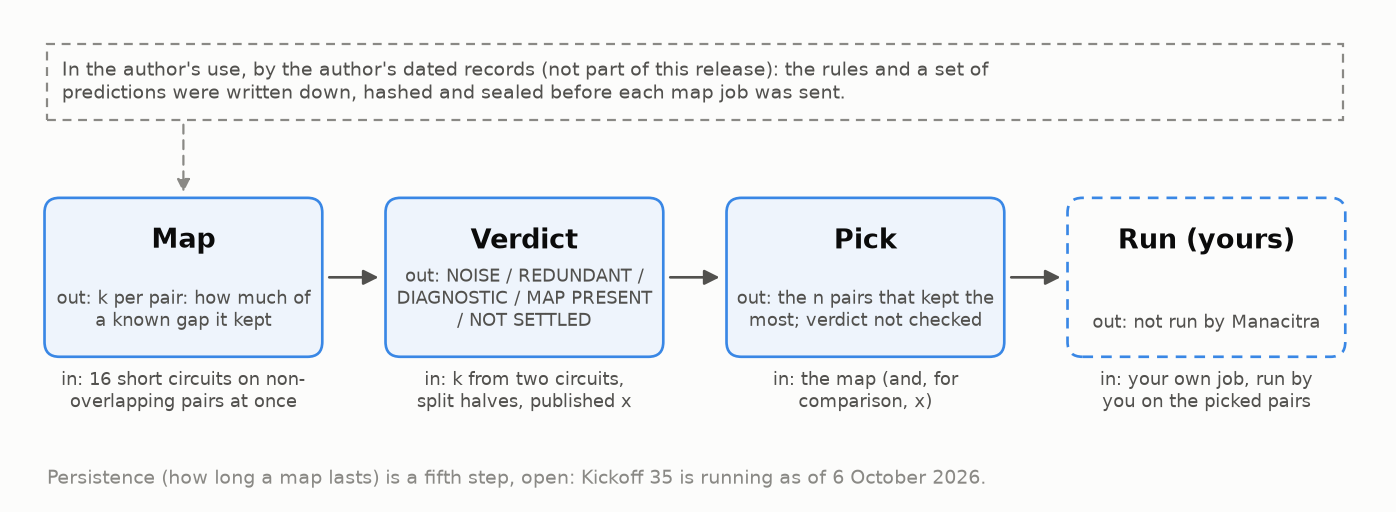
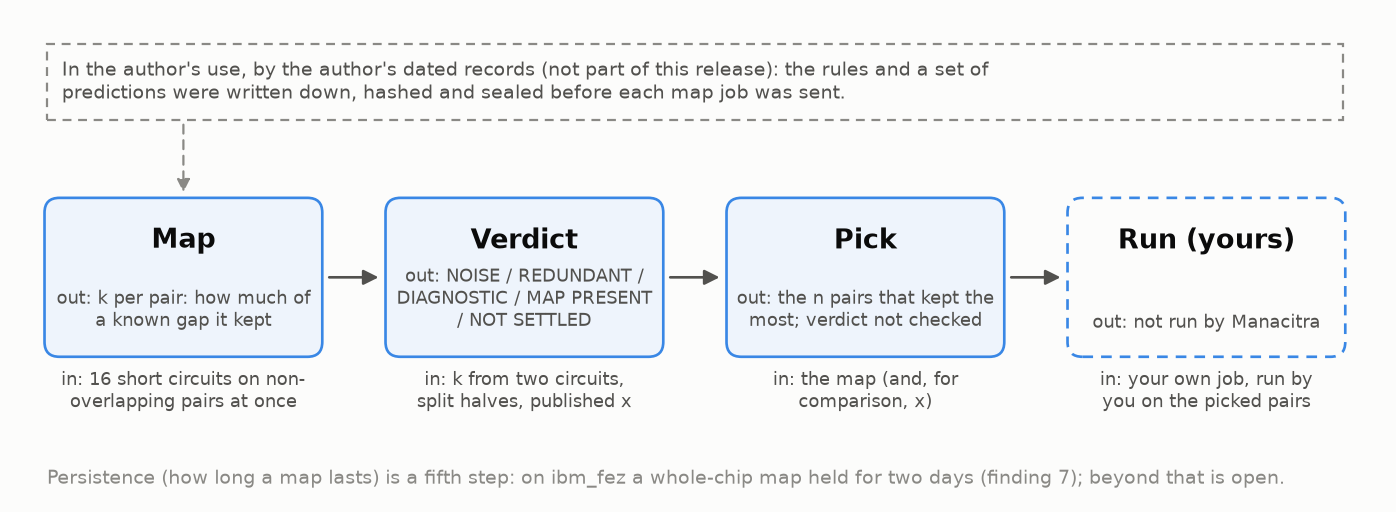
docs: what was measured, where the scores were tested, and a diagram that says Kickoff 35 ran
Finding 9 now says the gain is dominated by one pair and gives the
measured difference between the picks' other pairs, 0.0001, which a test
checks against a literal computed outside the package. The kept share
is said to have been tested on ibm_kingston too, and the scores not
compared head to head; finding 7 says IBM's x barely moved (at most
16%). The pipeline diagram's footer reports Kickoff 35's result, and a
test checks the text of every SVG against the phrases the README has
retired. The README and docs say how the commands read archived files.
Amendment A8, R1 and R3 to R5.

Changed region(s): [[0.3696, 0.9062, 0.9241, 0.9688]]

diff --git a/tests/test_readme_numbers.py b/tests/test_readme_numbers.py
@@ -336,15 +336,20 @@ def test_finding_7():
         top = {edges[i] for i in np.argsort(-k)[:6]}
         assert len(top & {tuple(p) for p in fl["pairs"]}) == 3, d
     assert "and three of them carry the most extreme values on the chip" in README
-    # both pairs on qubit 149 fell on Day 2 and came back on Day 3; IBM's x for them moved by less than 15%
+    # both pairs on qubit 149 fell on Day 2 and came back on Day 3, k by 3.5 and 4.1 from Day 1 to Day 2, while IBM's
+    # x for them changed by at most 16% (Amendment A8, R4: "barely moved", not "did not move")
     on149 = [i for i, e in enumerate(edges) if 149 in e]
     assert len(on149) == 2
+    falls, changes = [], []
     for i in on149:
         k1, k2, k3 = (a["per_day"][d]["k"][i] for d in "123")
         assert k2 < -4 and k1 > k2 + 2 and k3 > k2 + 2
+        falls.append(k1 - k2)
         x = [archive.load(f"ibm_fez/k35-day{d}.json")["published_at_submission"][i]["x"] for d in (1, 2, 3)]
-        assert max(x) / min(x) < 1.2  # x moved by up to 16% while k swung by more than 5
+        changes.append(max(x) / min(x) - 1)
+    assert sorted(round(f) for f in falls) == [3, 4] and round(max(changes), 2) == 0.16
     assert "On Day 2 both pairs on one qubit fell sharply and recovered on Day 3" in README
+    assert "while IBM's figures for them barely moved (x changed by at most 16%; k swung by 3 to 4)" in README
     assert min(r(ac["x_raw"][k]["pearson"], 2) for k in ("12", "23", "13")) == 0.99
     rkx = [r(a["per_day"][d]["r_k_x"]["pearson"], 2) for d in "123"]
     assert (max(rkx), min(rkx)) == (0.06, -0.07) and "(r between 0.07 and −0.07)" in README
@@ -404,10 +409,10 @@ def test_finding_9():
     S = [pairs.index(tuple(p)) for p in b["pick_set"]]
     assert len(S) == 23 and [tuple(p) for p in L["x_pick"]].index((94, 95)) == 5
     assert pairs[min(S, key=lambda i: W[i])] == (94, 95)
-    only_L = [pairs.index(tuple(p)) for p in L["pick"] if p not in L["x_pick"]]
-    only_x = [pairs.index(tuple(p)) for p in L["x_pick"] if p not in L["pick"] and tuple(p) != (94, 95)]
-    assert abs(W[only_L].mean() - W[only_x].mean()) < 0.001  # otherwise the picks tie
-    assert "rated 94-95 sixth best of 23, and it was the worst on the workload; the two picks otherwise tie" in README
+    assert (
+        "The gain is dominated by one pair: Rigetti's figures rated 94-95 sixth best of 23, and it was the worst"
+        in README
+    )
     today, before = k41_today(), k40_stage2()
     dead = {e: [tuple(x["pair"]) for x in a["dead_pair_filter"]["excluded"]] for e, a in (("t", today), ("y", before))}
     assert (18, 19) in dead["y"] and (18, 19) not in dead["t"]
@@ -535,4 +540,78 @@ def test_the_explainer_in_the_long_documentation():
     assert (
         "repeats (r = 0.87, needs at least 0.5), carries over (r = 0.82" in doc
         and "](diagrams/map-explainer.svg)" in doc
+    )
+
+
+def test_finding_9_the_level_only_pairs_against_the_x_only_pairs_apart_from_94_95():
+    """Amendment A8, R3: the three pairs only the level pick chose (0-1, 24-25, 87-88) against the two only the x pick
+    chose apart from 94-95 (22-23, 65-66), in mean workload fidelity W. The expected 0.00013 was computed by
+    tests/_independent_readings.py (k41_one_pair), which does not import manacitra."""
+    expected_difference = 0.00013  # from tests/_independent_readings.py, Amendment A8
+    b = k41_partB()
+    L = b["level"]
+    pairs, W = [tuple(p) for p in b["pairs"]], np.array(b["W"])
+    only_L = [pairs.index(tuple(p)) for p in L["pick"] if p not in L["x_pick"]]
+    only_x = [pairs.index(tuple(p)) for p in L["x_pick"] if p not in L["pick"] and tuple(p) != (94, 95)]
+    assert [pairs[i] for i in only_L] == [(0, 1), (24, 25), (87, 88)]
+    assert [pairs[i] for i in only_x] == [(22, 23), (65, 66)]
+    assert abs((W[only_L].mean() - W[only_x].mean()) - expected_difference) < 1e-4
+    assert r(W[only_L].mean() - W[only_x].mean(), 4) == 0.0001
+    assert (
+        "The three pairs only the level pick chose and the two only the x pick chose, apart from 94-95, differ in mean "
+        "fidelity by 0.0001." in README
+    )
+    assert "the two picks otherwise tie" not in README and "The whole gain is one pair" not in README
+
+
+def test_the_scores_compared_on_each_chip():
+    """Amendment A8, R4: the kept share was tested as a chooser on ibm_kingston too (finding 4, NOT SETTLED)."""
+    assert {n: v for n, _, v in k33("ibm_kingston")[0]}["verdict"] == "NOT SETTLED"
+    doc = (Path(__file__).resolve().parents[1] / "docs" / "index.md").read_text()
+    for text in (README, " ".join(doc.split())):
+        assert "was not settled on ibm_kingston" in text and "have not been compared head to head on any chip" in text
+        assert "third chip" not in text
+
+
+# --------------------------------------------------------------------------- Amendment A8, R5: retired phrases
+#: Phrases the README has retired, with the amendment that retired each; no README line and no diagram may carry one
+RETIRED = [
+    "running as of 6 October 2026",  # A7: Kickoff 35 ran and is reported
+    "is running as of",  # A7
+    "The findings come from runs on 5 and 6 October 2026",  # A7
+    "Three processors, two days",  # A7
+    "On Open Quantum, use a map only with the exact program that measured it.",  # A7
+    "today, use a map only within the job",  # A5
+    "SD of k 1.1, against 0.3",  # A7, corrected to the data
+    "15:06 to 16:20",  # A7, corrected to the data
+    "The whole gain is one pair",  # A8, R3
+    "the two picks otherwise tie",  # A8, R3
+    "Neither has been tested on a third chip",  # A8, R4
+    "IBM's figures for them did not move",  # A8, R4
+]
+DIAGRAMS = Path(__file__).resolve().parents[1] / "docs" / "diagrams"
+
+
+def svg_text(path: Path) -> str:
+    """Every piece of text in an SVG (the diagrams write text as text, not as paths), joined by spaces."""
+    import xml.etree.ElementTree as ET
+
+    return " ".join(" ".join(t.strip() for t in ET.parse(path).getroot().itertext() if t.strip()).split())
+
+
+def test_the_readme_carries_no_retired_phrase():
+    flat = " ".join(README.split())
+    assert [p for p in RETIRED if p in flat] == []
+
+
+@pytest.mark.parametrize("svg", sorted(p.name for p in DIAGRAMS.glob("*.svg")))
+def test_no_diagram_carries_a_retired_phrase(svg):
+    text = svg_text(DIAGRAMS / svg)
+    assert text, f"{svg}: no text found; the check would pass on anything"
+    assert [p for p in RETIRED if p in text] == []
+
+
+def test_the_pipeline_diagram_says_kickoff_35_ran():
+    assert "on ibm_fez a whole-chip map held for two days (finding 7); beyond that is open." in svg_text(
+        DIAGRAMS / "pipeline.svg"
     )

diff --git a/docs/make_diagrams.py b/docs/make_diagrams.py
@@ -464,7 +464,8 @@ def diagram_pipeline(out: Path):
     ax.text(
         0.25,
         0.1,
-        "Persistence (how long a map lasts) is a fifth step, open: Kickoff 35 is running as of 6 October 2026.",
+        "Persistence (how long a map lasts) is a fifth step: on ibm_fez a whole-chip map held for two days "
+        "(finding 7); beyond that is open.",
         fontsize=8.6,
         color=MUTED,
     )

diff --git a/README.md b/README.md
@@ -32,9 +32,9 @@ The verdict comes from three checks on the same map. It must repeat: each half o
 
 ![Four boxes in a row joined by arrows: Map (in: 16 short circuits on a set of non-overlapping qubit pairs at once (27 in the published runs); every coupler on a chip can be covered in a few rounds; out: k per pair), Verdict (in: k from two circuits, split halves, published x; out: NOISE, REDUNDANT, DIAGNOSTIC, MAP PRESENT or NOT SETTLED), Pick (in: the map; out: the n pairs that kept the most, ranked without checking the verdict), Run, drawn dashed (your own job, run by you on the picked pairs, not by Manacitra). A dashed note above the Map box says that, according to the author's dated records, which are not part of this release, the rules and predictions were sealed before each map job was sent.](docs/diagrams/pipeline.svg)
 
-Map, then verdict, then pick, then run. The verdict says whether the map is worth using at all: a map that does not repeat is NOISE, and a map the published figures already explain is REDUNDANT. Manacitra computes the map and the verdict; `manacitra pick` ranks pairs from the map and does not check the verdict, though it warns when the verdict is not DIAGNOSTIC or MAP PRESENT; and you run your own job. `manacitra pick --by level` ranks by the plain level instead, which chose better pairs on the Rigetti processor where the kept share did not (findings 8 and 9). In the author's own use, the rules and a set of predictions were written down and hashed before each job was sent, according to the author's dated records, which are not part of this release. From this release on, new commitments can be checked by anyone with `manacitra seal` and, once signing is on, a public timestamp; the runs published here predate this release and cannot be checked that way.
+Map, then verdict, then pick, then run. The verdict says whether the map is worth using at all: a map that does not repeat is NOISE, and a map the published figures already explain is REDUNDANT. Manacitra computes the map and the verdict; `manacitra pick` ranks pairs from the map and does not check the verdict, though it warns when the verdict is not DIAGNOSTIC or MAP PRESENT; and you run your own job. `manacitra pick --by level` ranks by the plain level instead, which chose better pairs on the Rigetti processor where the kept share did not (findings 8 and 9). On an archived file, `pick`, `verdict` and `report` read the counts by the bit reading the file declares (`meta.bit_reading`: IBM's, Open Quantum's or Amazon Braket's), refuse a file that declares none, and give the verdict and statistics of that run's own analysis; a Braket map's published score comes from the figures file it names. In the author's own use, the rules and a set of predictions were written down and hashed before each job was sent, according to the author's dated records, which are not part of this release. From this release on, new commitments can be checked by anyone with `manacitra seal` and, once signing is on, a public timestamp; the runs published here predate this release and cannot be checked that way.
 
-Which to rank by, from the two chips: on ibm_fez the kept share chose the better pairs (Kickoff 33); on the Rigetti processor the plain level, each pair's mean P(11) on circuit A without the offset, did, on the same day and a day later (Kickoffs 40 and 41), and the kept share did not. Neither has been tested on a third chip. The dead-pair filter uses the run's own levels, never a list from an earlier day: on the Rigetti processor, dead pairs came and went between consecutive days (18-19 came back; 72-73 and 76-77 went).
+Which to rank by: the kept share chose better pairs on ibm_fez and was not settled on ibm_kingston; the plain level, each pair's mean P(11) on circuit A without the offset, chose better pairs on the Rigetti processor, on the same day and a day later, where the kept share did not (Kickoffs 33, 40 and 41). The two scores have not been compared head to head on any chip. The dead-pair filter uses the run's own levels, never a list from an earlier day: on the Rigetti processor, dead pairs came and went between consecutive days (18-19 came back; 72-73 and 76-77 went).
 
 ### 5. The payoff
 
@@ -50,7 +50,7 @@ This one is for a stranger who wants to know whether the predictions came before
 
 ## What it has shown, and what it has not
 
-The findings come from runs on 5 to 7 October 2026. The counts are in `data/`. Every statistic listed in `tests/expected_fields.json` is recomputed from the archived inputs: the raw counts where the release includes them; for the Kickoff 29 settling runs and some Rigetti comparisons, the archived probability or level tables, whose counts are not in this release; and, for elapsed times, the archived timestamps, and compared at 10⁻⁶, except the seeded resampling fields: the intervals that also resample shots, at 10⁻³, and Kickoff 42's bootstrap SDs, at 10⁻⁶ under numpy 2.5 or later (`tests/_reproduce.py`, `RESAMPLED`). Fields that cannot be recomputed from this release are named, with reasons, in `tests/excluded_fields.json`. Both lists are checked by `pytest tests/test_reproduction.py tests/test_field_inventory.py`. Every measured statistic in the README is checked by a test; times, ranges and counts are taken from the data files and listed in `tests/test_readme_numbers.py`.
+The findings come from runs on 5 to 7 October 2026. The counts are in `data/`. Every statistic listed in `tests/expected_fields.json` is recomputed from the archived inputs: the raw counts where the release includes them; for the Kickoff 29 settling runs and some Rigetti comparisons, the archived probability or level tables, whose counts are not in this release; and, for elapsed times, the archived timestamps, and compared at 10⁻⁶, except the seeded resampling fields: the intervals that also resample shots, at 10⁻³, and Kickoff 42's bootstrap SDs, at 10⁻⁶ under numpy 2.5 or later (each marked in `tests/expected_fields.json`). Fields that cannot be recomputed from this release are named, with reasons, in `tests/excluded_fields.json`. Both lists are checked by `pytest tests/test_reproduction.py tests/test_field_inventory.py`. Every measured statistic in the README is checked by a test; times, ranges and counts are taken from the data files and listed in `tests/test_readme_numbers.py`.
 
 1. **Each pair keeps its own share, and the share repeats** (Kickoff 31; ibm_fez at 12:37 UTC, ibm_kingston at 12:38 UTC; 27 pairs each). Within one job, the map from one half of the circuits correlates with the map from the other half at r = 0.87 (ibm_fez) and 0.90 (ibm_kingston). It carries over to a second circuit with a different gap and its own reference: r = 0.82 and 0.89. The published score does not account for it (r = −0.18 and −0.05). Verdict on both: DIAGNOSTIC.
 2. **The map exists on a second vendor's chip, within one job** (Kickoff 34b; Rigetti Cepheus-1-108Q, through Open Quantum, 5 October 2026, main job 22:15 to 22:29 UTC). A screening run chose 27 pairs, and 22 of them were working pairs in the main job. Kickoff 37 later found that the five pairs excluded here read low only under this program: under the 53-pair screen program they read 0.70 to 0.84. Kickoff 40 later ran the same 27 named pairs on this processor through a route that records placement, and found that this job's pair levels do not match the pinned levels (r = −0.17 on the 20 shared working pairs). The pair names in this job are labels, not locations; the within-job finding stands as measured. Within that job, each pair's kept share repeated (the split halves correlate at r = 0.985) and carried over from circuit A to circuit B (r = 0.971). Verdict: MAP PRESENT. Two pairs whose offset circuits collapsed, 13-14 and 101-102, inflate these Pearson figures. Without them, on 20 pairs, the repeat check is 0.84 and the carry-over 0.79, and the rule still gives MAP PRESENT; this 20-pair figure was computed after seeing the data. (The leave-one-out check, fixed before the run according to the author's dated records, which are not part of this release, drops 101-102 alone and also gives MAP PRESENT.) The chip publishes no per-pair figures, so the test cannot say whether the map adds anything beyond them.
@@ -58,9 +58,9 @@ The findings come from runs on 5 to 7 October 2026. The counts are in `data/`. E
 4. **On ibm_fez, choosing pairs by the map gave 35.6% less error on unrelated random circuits than choosing by the published error rates** (Kickoff 33; 15:20 UTC). Gain in fidelity G = +0.0012, 90% interval +0.0004 to +0.0021; verdict USEFUL. **On ibm_kingston (15:23 UTC), 16% less, not statistically settled**: G = +0.0004 (+0.0001 to +0.0008), but the map's partial correlation with the workload, after removing the published score, was 0.29 (p = 0.073), short of the rule's 0.3 and p < 0.05. Verdict: NOT SETTLED.
 5. **The rule can say no** (Kickoff 36, a simulation of the noise model Cirq publishes for Google's willow_pink, run on a laptop; not a measurement of any device). When every difference between pairs came from the published figures, the rule called the map NOISE: those differences were too small to repeat above shot noise. When a per-pair error was planted outside the published figures, the rule found it (DIAGNOSTIC).
 6. **On the Rigetti processor, a pair's level depends on the program that measures it, not on the hour** (Kickoff 37; Rigetti Cepheus-1-108Q, through Open Quantum, 6 October 2026; first wave 00:45 to 02:22 UTC, second wave 11:31 to 11:35 UTC). Two programs from Kickoff 34b were sent again, unchanged: the main job's 27-pair program and the 53-pair screen, which contains the same 27 pairs. Each program agreed with itself: r = 0.997 to 0.998 minutes apart, 0.97 (27-pair) and 0.76 (53-pair) across about 9 hours, and 0.99 and 0.98 against its own Kickoff 34b run the day before. The two programs did not agree with each other on the 27 pairs they share: r = 0.07 in the first wave and −0.25 in the second, when all three tasks ran within 3 minutes. Verdict, by a rule fixed before the run according to the author's dated records: PLACEMENT, read as "the levels depend on the program". Kickoff 38 (6 October 2026, 13:42 to 13:46 UTC) then sent a third program that measures the 53-pair program's 106 qubits but runs only the 27-pair program's gates: it read like the 27-pair program (r = 0.99) and not like the 53-pair one (r = −0.15), so what moves the levels is the program's gate graph, not which qubits it measures (verdict ACTIVITY). Kickoff 40 then ran named pairs on the same processor through Amazon Braket, where the compiled program returned with each task shows where each pair ran, and found that neither of Kickoff 37's programs had run its pairs on the named qubits (r = −0.18 and 0.24 against the pinned levels). The levels depended on the program because the program's gates decided where the pairs went. The second wave was planned two hours after the first and ran nine hours after it, so the two-hour question was not tested.
-7. **On ibm_fez, a map of the whole chip held for two days** (Kickoff 35; all 176 coupled pairs in 3 rounds, one job a day on 5, 6 and 7 October 2026 at 17:02, 14:56 and 14:21 UTC, across two daily recalibrations). The map from Day 3 correlates with Day 1 at r = 0.86 (0.89 after correcting for each day's own repeatability), and 9 of the 18 worst pairs on Day 1 were still among the 18 worst on Day 3, exactly the rule's bar of 50%. Verdict: HOLDS, under the rule fixed before the run and under its amendment. The decile condition is met with no margin, and a repeat could as easily have read PARTIAL; the correlations are the solid part. Four pairs that IBM lists at a two-qubit error of 1.0 ran, and three of them carry the most extreme values on the chip; without all four the corrected correlation from Day 1 to Day 3 is 0.74. On Day 2 both pairs on one qubit fell sharply and recovered on Day 3, while IBM's figures for them did not move. IBM's published score is steadier day to day than the map (r = 0.99) and does not predict it (r between 0.07 and −0.07).
+7. **On ibm_fez, a map of the whole chip held for two days** (Kickoff 35; all 176 coupled pairs in 3 rounds, one job a day on 5, 6 and 7 October 2026 at 17:02, 14:56 and 14:21 UTC, across two daily recalibrations). The map from Day 3 correlates with Day 1 at r = 0.86 (0.89 after correcting for each day's own repeatability), and 9 of the 18 worst pairs on Day 1 were still among the 18 worst on Day 3, exactly the rule's bar of 50%. Verdict: HOLDS, under the rule fixed before the run and under its amendment. The decile condition is met with no margin, and a repeat could as easily have read PARTIAL; the correlations are the solid part. Four pairs that IBM lists at a two-qubit error of 1.0 ran, and three of them carry the most extreme values on the chip; without all four the corrected correlation from Day 1 to Day 3 is 0.74. On Day 2 both pairs on one qubit fell sharply and recovered on Day 3, while IBM's figures for them barely moved (x changed by at most 16%; k swung by 3 to 4). IBM's published score is steadier day to day than the map (r = 0.99) and does not predict it (r between 0.07 and −0.07).
 8. **On the Rigetti processor, with placement pinned, the map is DIAGNOSTIC** (Kickoff 40; Rigetti Cepheus-1-108Q through Amazon Braket, 6 October 2026, 15:17 to 15:50 UTC; Kickoff 34b's 27 named pairs). Through this route each program names its physical qubits inside a verbatim box, and the compiled program returned with each task shows every pair on its named qubits; a pair's level was the same with 27 pairs running or with half of them (d = 0.99), so the reading is PINNED. On the 23 working pairs with published figures, the map repeated (r = 0.97), carried over to circuit B (r = 0.81) and was not explained by Rigetti's figures (r = 0.20): DIAGNOSTIC, the first such verdict beyond IBM. The payoff on the same day was NOT SETTLED for the kept share; beside it, choosing by the plain level (the no-offset P(11)) gave 31% less error than choosing by the published figures. The between-pair spread is large here (SD of k 1.1, against 0.2 on Kickoff 31's ibm_fez pairs), and a few pairs carry negative k, where the offset circuit goes wrong.
-9. **The pinned Rigetti map lasted a day, and the day-old level chose better pairs** (Kickoff 41; the same programs re-sent on 7 October 2026, 15:05 to 15:58 UTC, 23 to 24 hours after Kickoff 40). The kept share correlated with the previous day's at r = 0.85 (0.61 without the two extreme pairs) and the plain level at r = 0.80: HOLDS. Choosing 8 pairs by the previous day's plain level gave 27% less error on the random workload than choosing by Rigetti's figures read that day (G = +0.0122, 90% interval +0.0077 to +0.0168): USEFUL. The whole gain is one pair: Rigetti's figures rated 94-95 sixth best of 23, and it was the worst on the workload; the two picks otherwise tie. The previous day's kept share was NOT SETTLED, as on the day before. Dead pairs changed between the days: 18-19 was back, 72-73 and 76-77 were gone.
+9. **The pinned Rigetti map lasted a day, and the day-old level chose better pairs** (Kickoff 41; the same programs re-sent on 7 October 2026, 15:05 to 15:58 UTC, 23 to 24 hours after Kickoff 40). The kept share correlated with the previous day's at r = 0.85 (0.61 without the two extreme pairs) and the plain level at r = 0.80: HOLDS. Choosing 8 pairs by the previous day's plain level gave 27% less error on the random workload than choosing by Rigetti's figures read that day (G = +0.0122, 90% interval +0.0077 to +0.0168): USEFUL. The gain is dominated by one pair: Rigetti's figures rated 94-95 sixth best of 23, and it was the worst on the workload. The three pairs only the level pick chose and the two only the x pick chose, apart from 94-95, differ in mean fidelity by 0.0001. The previous day's kept share was NOT SETTLED, as on the day before. Dead pairs changed between the days: 18-19 was back, 72-73 and 76-77 were gone.
 10. **On the Rigetti processor, a pair's response to a particular program repeats a day later, and a smooth shift of the offset does not describe it** (Kickoff 42; the same pairs, pinned, circuit A at nine offsets and circuit B at nine, 6 October 2026 at 17:46 UTC and 7 October at 16:17 UTC). The ideal curve shifted and scaled fits fewer than one pair in ten within twice the shot noise, and the fitted shift does not explain the kept share (r = +0.24). What repeats is each pair's pattern over the 18 programs: pooled r = 0.85 a day later, median per-pair r = 0.98, with two pairs at 0.04. Pair 94-95 has a dip at exactly the designed offset rather than a moved peak; pair 11-12 read about 0.3 higher on the same seven programs on both days, and 72-73 read 0.21 higher on the first day and 0.11 on the second. The fitted shifts also repeat once the pairs whose fit ran to the grid's edge are set aside (r = 0.72 for A, 0.90 for B; HOLDS under the amended rule, PARTIAL under the original). This is the evidence behind the sentence that a map is a map for one family of circuits.
 
 ![Four copies of ibm_fez's heavy-hex coupling map with all 176 couplers, from Kickoff 35. Three show the map on 5, 6 and 7 October 2026 at 17:02, 14:56 and 14:21 UTC, each coupler shaded and drawn thicker by its rank that day, darker for kept more; the fourth shows IBM's published score x on Day 1, darker for lower x. Rank correlations: Day 2 with Day 1, 0.76; Day 3 with Day 1, 0.66, and with Day 2, 0.70; the published score with Day 1's map, −0.08. Four couplers IBM listed at a two-qubit error of 1.0 are drawn dotted grey. The verdict: HOLDS under the original rule (corrected r from Day 1 to Day 3, 0.89) and under Amendment A1.](docs/diagrams/whole-chip-days.svg)
@@ -121,7 +121,7 @@ The practices below are as the author's dated records describe them; those recor
 | 37, 6 October 2026 | Did the Rigetti levels change between runs because of the program or because of time? | Rigetti Cepheus-1-108Q, through Open Quantum | PLACEMENT (the levels depend on the program; they held over about 9 hours) | `rigetti_cepheus_1_108q/k37-placement.json` |
 | 38, 6 October 2026 | Do the Rigetti levels follow the program's measured footprint or its gate activity? | Rigetti Cepheus-1-108Q, through Open Quantum | ACTIVITY (the gate graph decides; the measured footprint does not) | `rigetti_cepheus_1_108q/k38-activity.json`, `k38-P53i-A-no.qasm` |
 | 40, 6 October 2026 | With placement pinned, is the Rigetti map DIAGNOSTIC, and does it choose better pairs? | Rigetti Cepheus-1-108Q, through Amazon Braket | PINNED; DIAGNOSTIC; payoff NOT SETTLED (the plain level beside it, 31% less error) | `rigetti_cepheus_1_108q/k40-*.json`, `compiled/k40/` |
-| 41, 7 October 2026 | Does the pinned map last a day, and does the day-old level choose better pairs? | Rigetti Cepheus-1-108Q, through Amazon Braket | HOLDS; the level USEFUL (27% less error, one pair); the kept share NOT SETTLED | `rigetti_cepheus_1_108q/k41-*.json`, `compiled/k41/` |
+| 41, 7 October 2026 | Does the pinned map last a day, and does the day-old level choose better pairs? | Rigetti Cepheus-1-108Q, through Amazon Braket | HOLDS; the level USEFUL (27% less error, dominated by one pair); the kept share NOT SETTLED | `rigetti_cepheus_1_108q/k41-*.json`, `compiled/k41/` |
 | 42, 6 to 7 October 2026 | Do the weak pairs have their own best offset, and does it last? | Rigetti Cepheus-1-108Q, through Amazon Braket | SPREAD, MIXED, DOES NOT; the per-program pattern HOLDS a day later | `rigetti_cepheus_1_108q/k42-*.json`, `compiled/k42/` |
 
 The kickoff texts and the sealed predictions are kept and dated, and are not part of this release.

diff --git a/docs/index.md b/docs/index.md
@@ -175,8 +175,15 @@ What would discredit the map's persistence: FADES.
 - `layout.pick_pairs`: the n pairs with the highest k (or the lowest x).
 - `manacitra pick --by kept-share` (the default) ranks a map's pairs by k; `--by level` by the plain level, each pair's
   mean P(11) on circuit A without the offset; `--by x` by the published score. On ibm_fez the kept share chose the
-  better pairs (Kickoff 33); on the Rigetti processor the plain level did, on the same day and a day later (Kickoffs 40
-  and 41), and the kept share did not. Neither has been tested on a third chip.
+  better pairs on ibm_fez (Kickoff 33) and was not settled on ibm_kingston; the plain level chose better pairs on the
+  Rigetti processor, on the same day and a day later (Kickoffs 40 and 41), where the kept share did not. The two scores
+  have not been compared head to head on any chip.
+- **Reading an archived file** (Amendment A8). `manacitra pick`, `verdict` and `report` read an archived map's counts
+  by the bit reading its `meta.bit_reading` declares (`archive.p11_table`, one reader per reading) and refuse a file
+  that declares none, or an unknown one, naming the field. They give that run's own analysis (`archive.map_view`): on
+  every pair for IBM; on the working pairs, after the run's dead-pair filter, for Open Quantum; on the verdict set, the
+  working pairs with a published figure, for Amazon Braket, whose published score comes from the figures file its
+  `meta.figures_file` names. A record that is not a map run (a payoff, a scan, an isolation run) is refused.
 - `layout.published_score_braket`: x on Amazon Braket, (1 − CZ fidelity) + (1 − readout fidelity) of each qubit, from
   Braket's standardized device properties; a CZ fidelity of exactly 0.5 is the platform's placeholder, so x is None and
   the pair leaves the verdict set.

diff --git a/CONTRIBUTING.md b/CONTRIBUTING.md
@@ -26,12 +26,12 @@ Every statistic listed in `tests/expected_fields.json` is recomputed from the ar
 release includes them; for the Kickoff 29 settling runs and some Rigetti comparisons, the archived probability or level
 tables, whose counts are not in this release; and, for elapsed times, the archived timestamps, and compared at 10⁻⁶,
 except the seeded resampling fields: the intervals that also resample shots, at 10⁻³, and Kickoff 42's bootstrap SDs, at
-10⁻⁶ under numpy 2.5 or later (`tests/_reproduce.py`, `RESAMPLED`). Fields that cannot be recomputed from this release
-are named, with reasons, in `tests/excluded_fields.json`. `tests/test_reproduction.py` runs the comparison, which fails
-on a listed field that is missing on either side, has changed type, is not finite or differs by more than its tolerance;
-`tests/test_field_inventory.py` fails on any field of any data file that is in neither list. A new archived statistic
-goes in one of the two, in the same change. A change that moves a published number is not a fix; it is a different
-method, and it needs its own discussion first.
+10⁻⁶ under numpy 2.5 or later (each marked in `tests/expected_fields.json`). Fields that cannot be recomputed from this
+release are named, with reasons, in `tests/excluded_fields.json`. `tests/test_reproduction.py` runs the comparison,
+which fails on a listed field that is missing on either side, has changed type, is not finite or differs by more than
+its tolerance; `tests/test_field_inventory.py` fails on any field of any data file that is in neither list. A new
+archived statistic goes in one of the two, in the same change. A change that moves a published number is not a fix; it
+is a different method, and it needs its own discussion first.
 
 ## Independent review
 

diff --git a/CHANGELOG.md b/CHANGELOG.md
@@ -12,6 +12,12 @@ The first version.
   fidelity of exactly 0.5); `layout.published_score_braket` and `layout.vendor_flag`; `manacitra pick --by level`, to
   rank by the plain level; and a tie at the decile's edge in the persistence rule now goes to the earlier pair, as
   Kickoff 36's specification says. The identifier scan gained patterns for Amazon identifiers.
+- Amendment A8: every archived record with counts declares its bit reading (`meta.bit_reading`: IBM's adjacent bits,
+  Open Quantum's reversed index, Amazon Braket's measured qubits, or per pair), and `archive.p11_table` reads by it,
+  refusing a record that declares none; `manacitra pick`, `verdict` and `report` read an archived map that way and give
+  its run's own analysis (they had read every archive with IBM's bit positions). `data/PROGRAMS.md` catalogues every
+  program file in `data/`, generated by `tools/program_catalogue.py`. The seeded resampling fields are marked one by
+  one in `tests/expected_fields.json`, not matched by name.
 - Backends: a simulator (Qiskit Aer or numpy, always available) and IBM Quantum (Qiskit Runtime), with the submit-once
   guard, the usage read and the time cap. Experimental: Open Quantum, and a Cirq simulation of a published noise model.
 - The dataset: the counts and analyses of the runs on ibm_fez and ibm_kingston (5 October 2026), of the run on Rigetti
